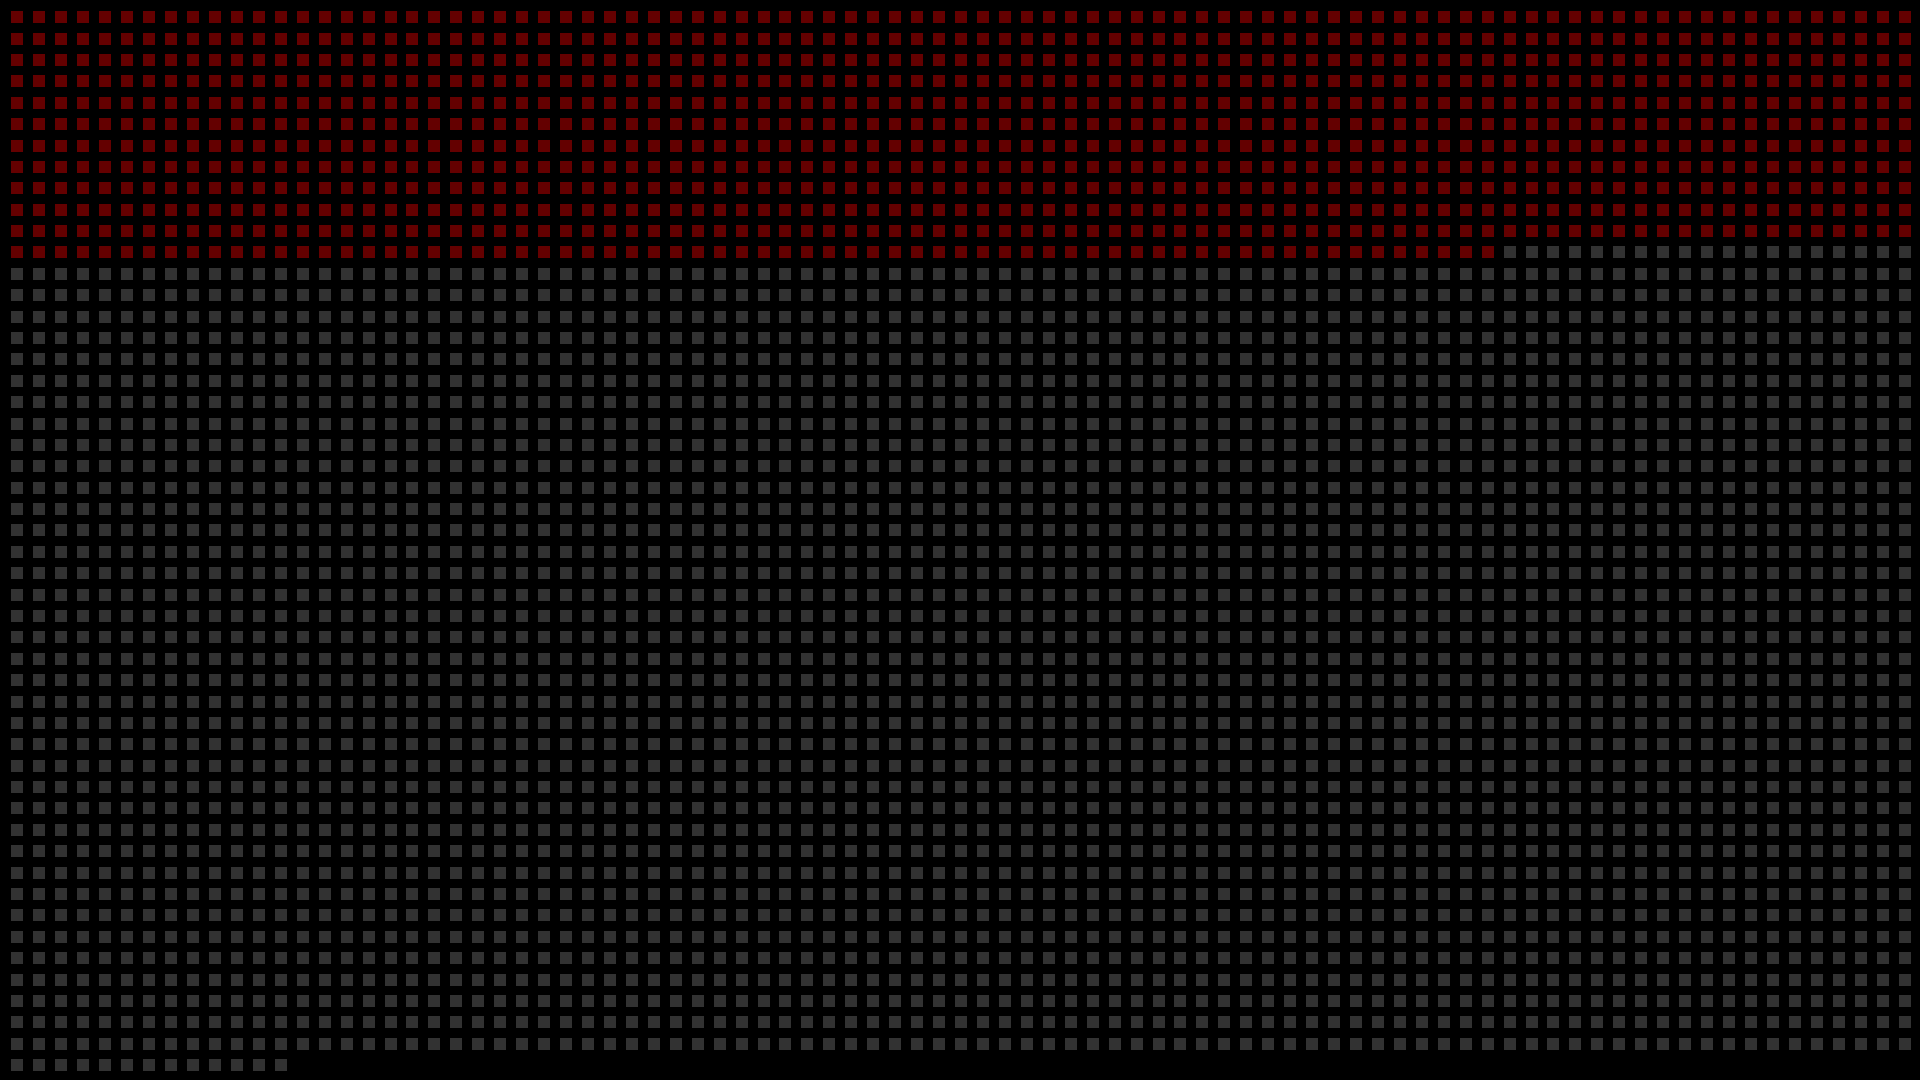
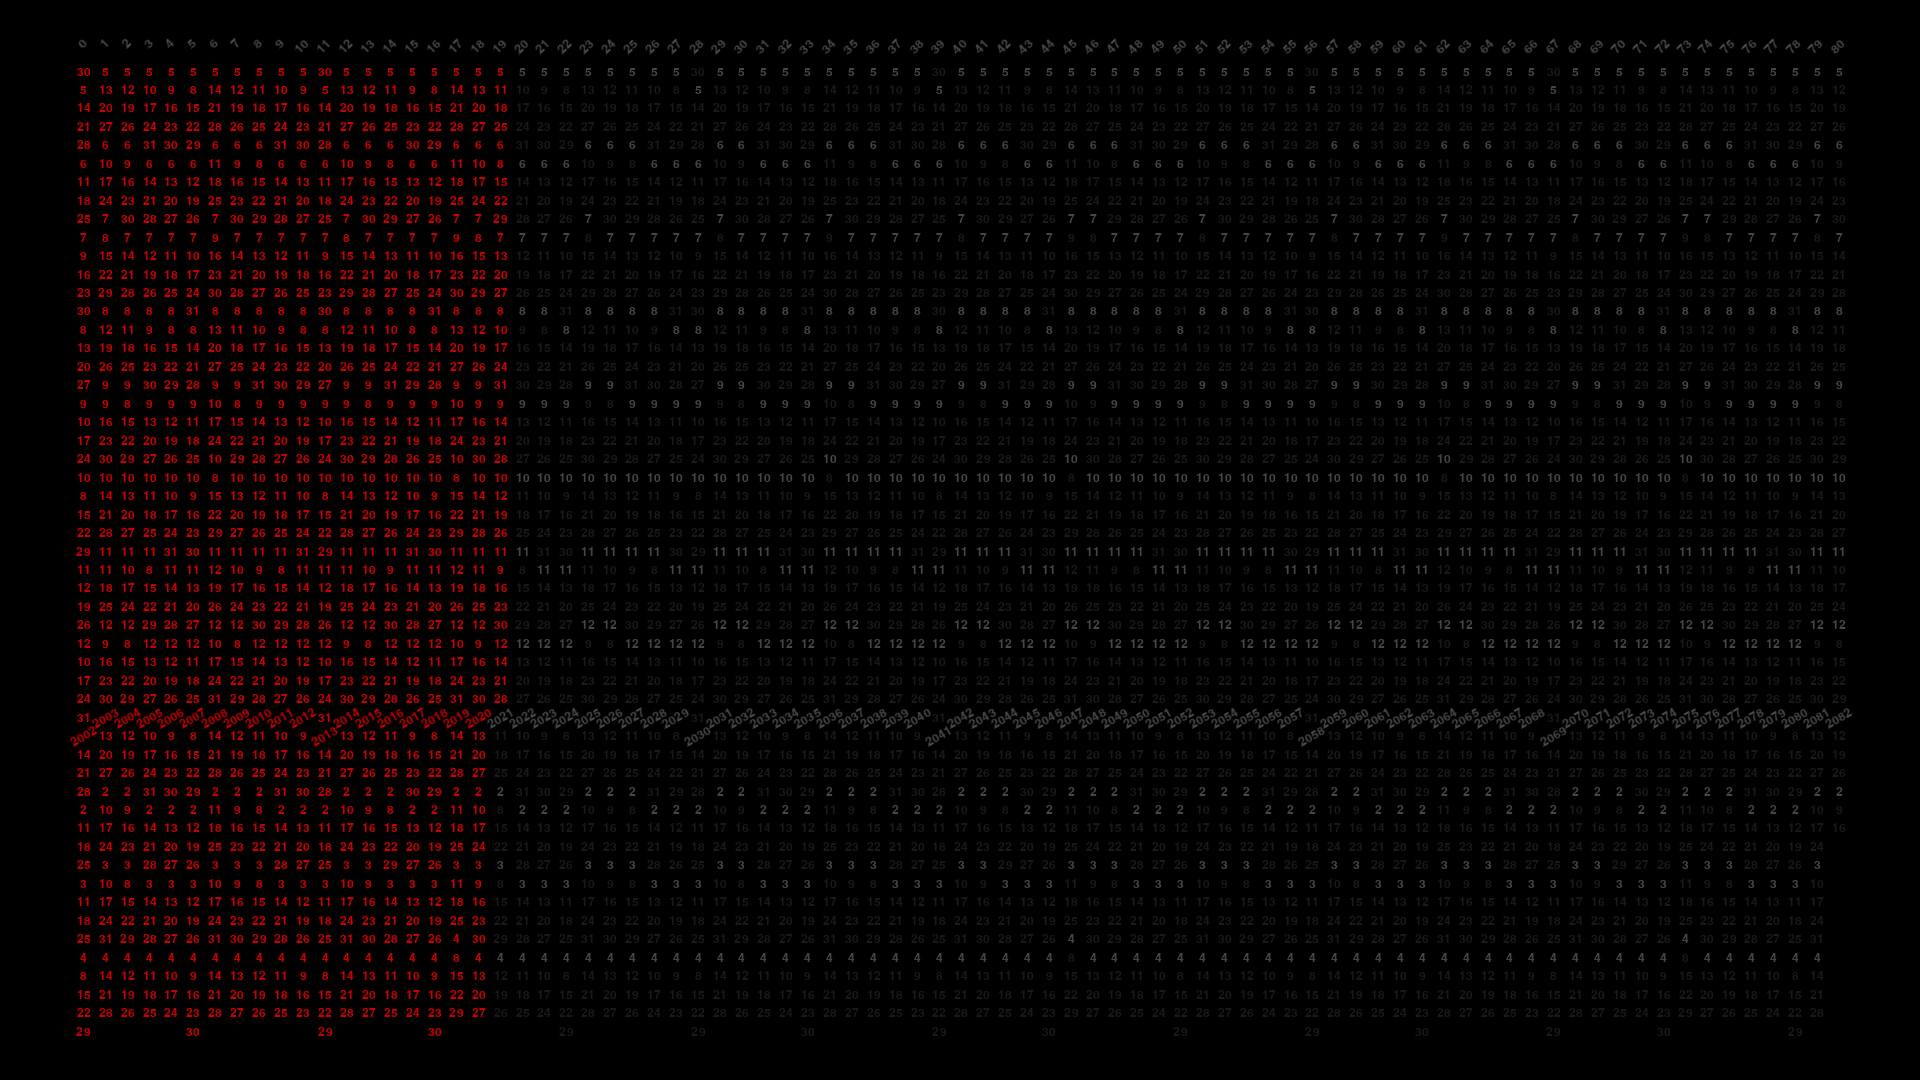
[~] overall design change

diff --git a/life_calendar_wallpaper.py b/life_calendar_wallpaper.py
@@ -2,10 +2,10 @@
 import math
 import time
 import os
-
+import datetime
 
 start = [7, 5, 2001] # your birthday day/month/year
-life_expectancy = 82 # how many year you are supposed to live
+life_expectancy = 80.8 # how many year you are supposed to live
 
 # your screen size
 window_x = int(1920)
@@ -26,52 +26,116 @@ except :
 import pygame
 from wallpaper import set_wallpaper
 
+weeks_len = 7*24*60*60
+year_len = 365.25*24*60*60
+
 start[0] -= 1
 start[1] -= 1
 start[2] -= 1970
 t_start = start[0]*24*60*60 + start[1]*365.25/12*24*60*60 + start[2]*365.25*24*60*60
-t_end = t_start + life_expectancy*365*24*60*60
-nb_weeks = life_expectancy*365/7
-print(start, start, t_end)
-weeks_len = 7*24*60*60
+#print("dif ", (t_start % weeks_len)/weeks_len*7)
+t_start -= t_start % weeks_len + weeks_len/7*3
+t_end = t_start + life_expectancy*365.25*24*60*60
+nb_weeks = life_expectancy*365.25/7
+#print(start, start, t_end)
+
+
 
 window = pygame.display.set_mode((window_x, window_y))
+pygame.font.init()
+
+#print("nb_weeks", nb_weeks)
+# ~one year for each colum
+size_y = 52                              + 6
+size_x = int(nb_weeks/(52.1785714286))+1 + 6
+"""
+#auto size for current size
+size_x = int(nb_weeks**(0.5)*((window_x/window_y)**0.5))   + 6
+size_y = int(nb_weeks**(0.5)*((window_y/window_x)**0.5))+1 + 6
+"""
 
 
-print("nb_weeks", nb_weeks)
-
-size_x = int(nb_weeks**(0.5)*((window_x/window_y)**0.5))
-size_y = int(nb_weeks**(0.5)*((window_y/window_x)**0.5))+1
-print(size_x, size_y)
+#print(size_x, size_y)
 
 inc_x = window_x/(size_x+0.5)
 inc_y = window_y/(size_y+0.5)
-size = (inc_x+inc_y)/3
-print("inc", inc_x, inc_y)
+size = min(inc_y/1.25, inc_x/1.25)
+font = pygame.font.Font(pygame.font.get_default_font(), int(size-2))
+#print("inc", inc_x, inc_y)
 
-
+#for x in range(40):
+    #print("#"*40)
 
 def generate_wall():
     n = 0
-    actual = time.time()
+    actual = time.time() + weeks_len
     t = t_start
-    for y in range(0, size_y):
-        for x in range(0, size_x):
+    date_prev = date = datetime.datetime.fromtimestamp(t)
+    for x in range(3, size_x-3):
+        sprt = font.render(str(x-3), True, (75, 75, 75))
+        sprt = pygame.transform.rotozoom(sprt, 45, 1)
+        sprt_size = sprt.get_size()
+        window.blit(sprt, (inc_x*x+inc_x/2+(size-2)/2-sprt_size[0]/2, inc_y*2))
+
+        #for y in range(3, size_y+1-3):
+        y = 3
+        while 1:
+            date = datetime.datetime.fromtimestamp(t)
+
+            #print(date, date.strftime("%A"))
             pose_x = inc_x*x+inc_x/2
             pose_y = inc_y*y+inc_y/2
-            #pygame.draw.rect(window, (150, 150, 150), (pose_x, pose_y, size, size))
+            t += weeks_len
+
+
+            color = [0, 0, 0]
             if actual > t:
-                t += weeks_len
-                pygame.draw.rect(window, (100, 0, 0), (pose_x+1, pose_y+1, size-2, size-2))
+                color[0] += 200
             else:
-                pygame.draw.rect(window, (50, 50, 50), (pose_x+1, pose_y+1, size-2, size-2))
+                color = [25, 25, 25]
+                if date.year != date_prev.year:
+                    color = [25, 25, 25]
+                    #print("year")
+
+                elif date.month != date_prev.month:
+                    color = [20, 20, 20]
+                    #print("month")
+            #print(color)
+            #pygame.draw.rect(window, color, (pose_x+1, pose_y+1, size-2, size-2))
+            if date.year != date_prev.year:
+                if actual <= t:
+                    color[0], color[1], color[2] = color[0]+50, color[1]+50, color[2]+50
+                sprt = font.render(str(date.year), True, color)
+                sprt = pygame.transform.rotozoom(sprt, 30, 1)
+                sprt_size = sprt.get_size()
+                window.blit(sprt, (pose_x+size/2-sprt_size[0]/2, pose_y-sprt_size[1]/2+size/2))
+
+            elif date.month != date_prev.month:
+                if actual <= t:
+                    color[0], color[1], color[2] = color[0]+50, color[1]+50, color[2]+50
+                sprt = font.render(str(date.month), True, color)
+                sprt_size = sprt.get_size()
+                window.blit(sprt, (pose_x+size/2-sprt_size[0]/2, pose_y-sprt_size[1]/2+size/2))
+
+            else:
+                if actual <= t:
+                    color[0], color[1], color[2] = color[0], color[1], color[2]
+                sprt = font.render(str(date.day), True, color)
+                sprt_size = sprt.get_size()
+                window.blit(sprt, (pose_x+size/2-sprt_size[0]/2, pose_y-sprt_size[1]/2+size/2))
+
             n += 1
+            #end of the drawing
             if n > nb_weeks:
                 return
+            y += 1
+            if (t-t_start) % year_len < weeks_len:
+                date_prev = date
+                break
+            date_prev = date
 
 generate_wall()
 
 pygame.display.flip()
 pygame.image.save(window, "screenshot.png")
-
 set_wallpaper("screenshot.png")
